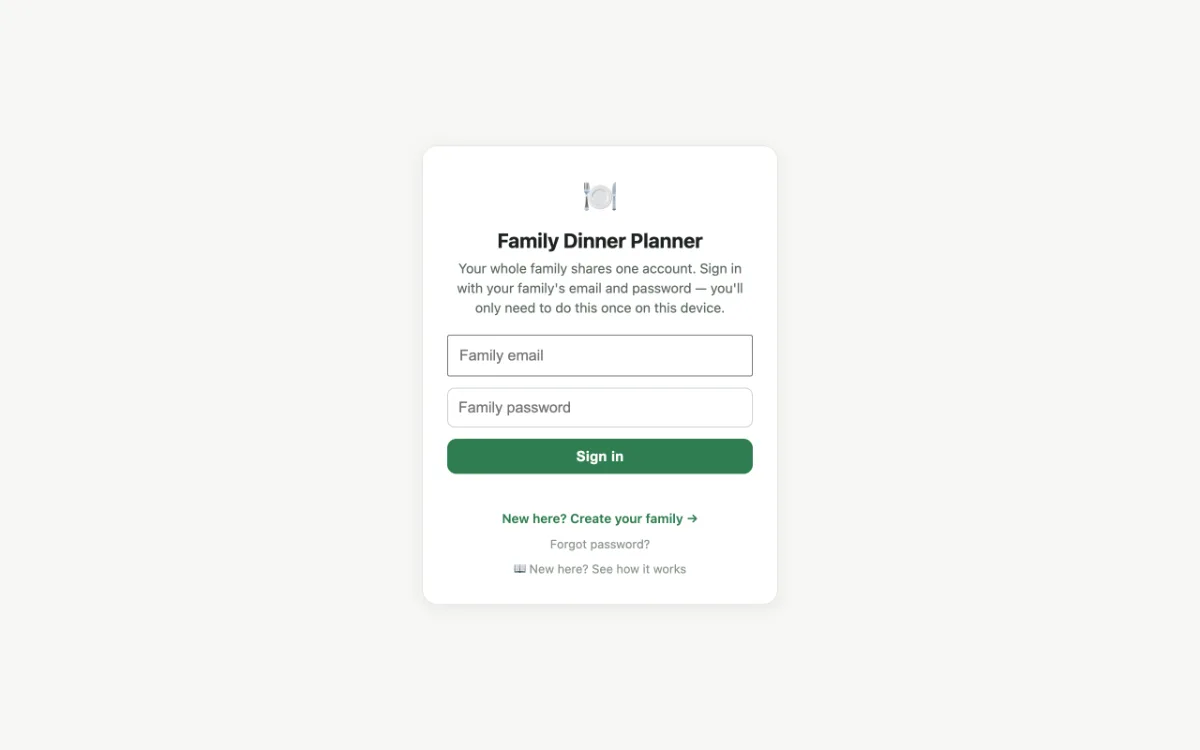
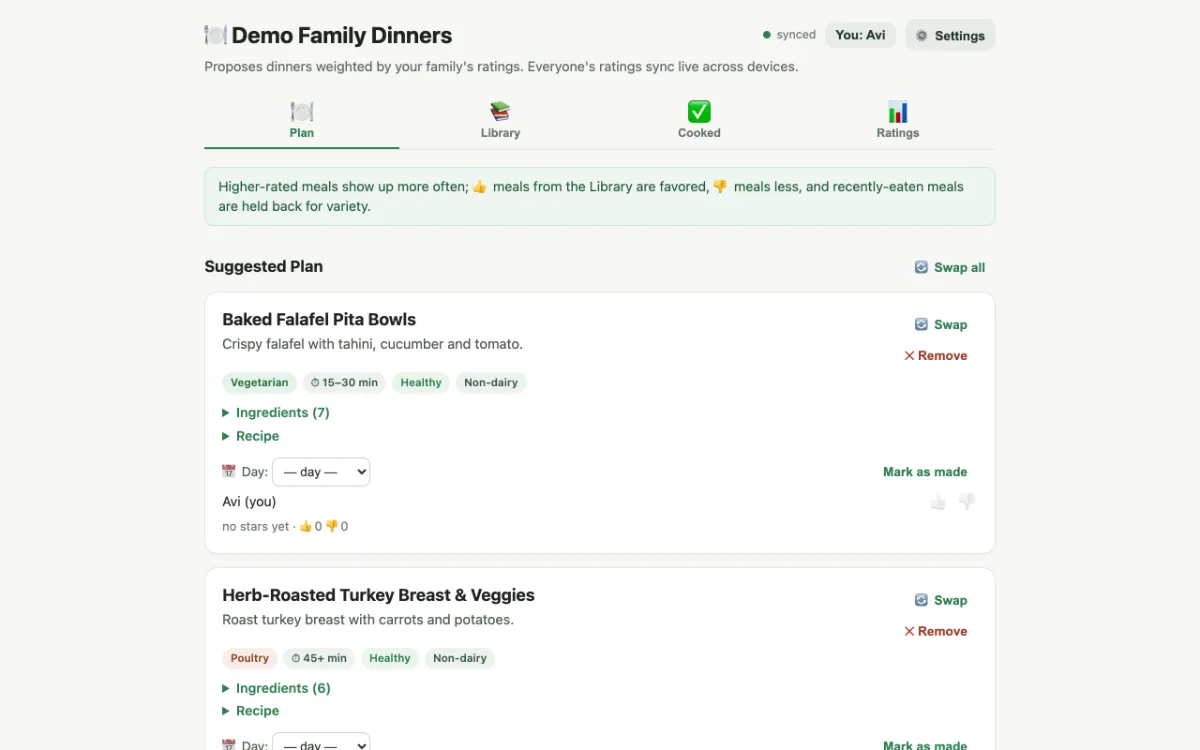
Family Dinners demo link, real Siddur OCR shot, cache-busted images (v0.5.0)
The Siddur OCR card now shows the actual tool. Its key prompt turned out
to be a display toggle in front of the UI, so capture.js calls the page's
own showApp: no key, no API call, just the screen worth showing.

Family Dinners links to ?demo and its card shows the sandbox planner
instead of a sign-in box. Torah Navigator keeps its note and stays as it
is, since it is still work in progress.

Screenshots now carry ?v=<catalog version>. They keep their filenames
when re-shot, so without this a returning visitor keeps seeing the old
picture, which is exactly what happened with the split-panel cards.

diff --git a/apps/index.html b/apps/index.html
@@ -405,6 +405,11 @@ const LABEL_KIND = {
 
 const kindFor = (label) => LABEL_KIND[label.trim().toLowerCase()] || 'custom';
 
+/* Screenshots keep their filenames when they are re-shot, so without this a
+   browser that has seen the page before keeps serving the old picture.
+   Set from the catalog version, which is bumped on every change. */
+let SHOT_VERSION = '0';
+
 const monthYear = (iso) =>
   new Date(iso + 'T12:00:00').toLocaleDateString('en-US', { month: 'short', year: 'numeric' });
 
@@ -429,8 +434,8 @@ function cardHTML(app) {
 
   return `
   <article class="card${app.hidden ? ' is-hidden' : ''}">
-    <img class="shot" src="shots/${esc(app.shot || app.id)}.webp" alt="Screenshot of ${esc(app.name)}"
-         loading="lazy" width="1200" height="750">
+    <img class="shot" src="shots/${esc(app.shot || app.id)}.webp?v=${esc(SHOT_VERSION)}"
+         alt="Screenshot of ${esc(app.name)}" loading="lazy" width="1200" height="750">
     <div class="card-body">
       <h3><a href="${esc(app.url)}" target="_blank" rel="noopener">${esc(app.name)}</a></h3>
       ${labels || hiddenChip ? `<div class="labels">${hiddenChip}${labels}</div>` : ''}
@@ -470,6 +475,7 @@ function render(catalog, overrides, isAdmin) {
     storeReady,
   ]);
 
+  SHOT_VERSION = catalog.version;
   document.getElementById('version').textContent = `apps directory v${catalog.version}`;
 
   if (store.mode === 'offline') {

diff --git a/apps/tools/capture.js b/apps/tools/capture.js
@@ -67,6 +67,15 @@ const WARMUPS = {
     await page.click('#playBtn'); await sleep(1400);
     await page.click('#helpGo'); await sleep(1200);
   },
+  // The key prompt is only a display toggle in front of the real UI. Calling
+  // the page's own showApp reveals it without a key and without any API call,
+  // which is the screen worth showing on a card.
+  'siddur-ocr': async (page) => {
+    await page.evaluate(() => window.showApp && window.showApp());
+    await sleep(2500);
+  },
+  // The card links to ?demo, so shoot the sandbox rather than the sign-in card.
+  'family-dinners': async (page) => { await sleep(5000); },
 };
 
 (async () => {
